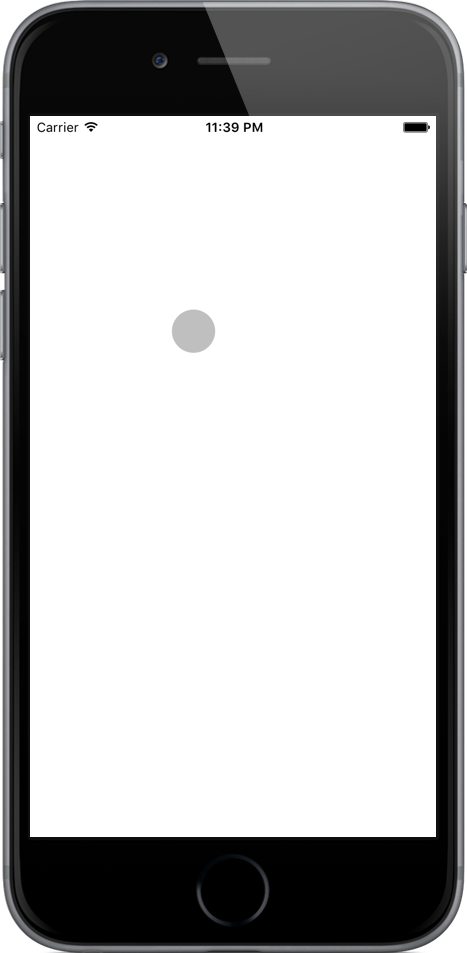
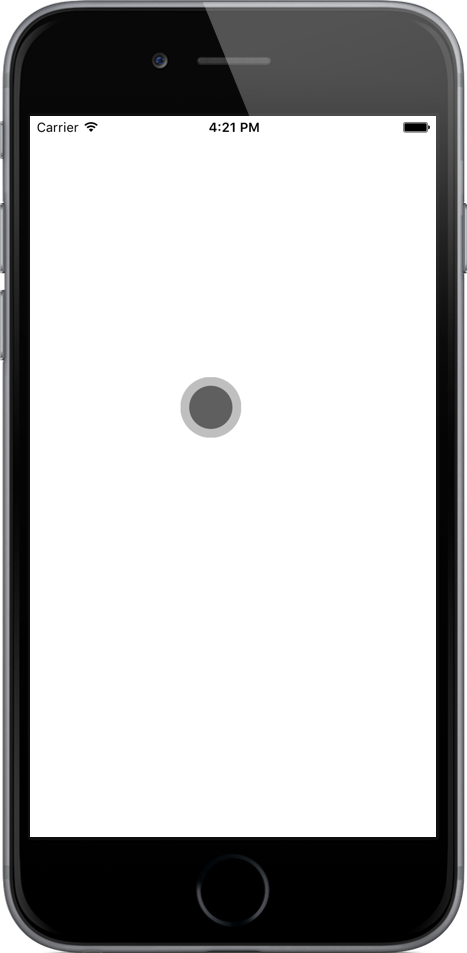
Support force touch

Changed region(s): [[0.3597, 0.3043, 0.5096, 0.4565], [0.4497, 0.1217, 0.5696, 0.1522]]

diff --git a/DMZTouchesWindow.m b/DMZTouchesWindow.m
@@ -7,10 +7,69 @@
 
 #import "DMZTouchesWindow.h"
 
+// MARK: DMZTouchView
+
+@interface DMZTouchView : UIView
+
+- (void)setCoreCollor:(UIColor *)coreColor;
+- (void)setForceCollor:(UIColor *)forceColor;
+- (void)setForceRadius:(CGFloat)forceRadius;
+
+@end
+
+@implementation DMZTouchView
+{
+	UIView *_core;
+	UIView *_force;
+}
+
+- (instancetype)initWithRadius:(CGFloat)radius
+{
+	CGRect frame = CGRectMake(0, 0, radius * 2, radius * 2);
+
+	self = [super initWithFrame:frame];
+
+	_force = [[UIView alloc] initWithFrame:(CGRect){CGPointZero, frame.size}];
+	_force.autoresizingMask = (UIViewAutoresizingFlexibleWidth | UIViewAutoresizingFlexibleHeight);
+	_force.layer.masksToBounds = YES;
+	_force.layer.cornerRadius = radius;
+	[self addSubview:_force];
+
+	_core = [[UIView alloc] initWithFrame:(CGRect){CGPointZero, frame.size}];
+	_core.autoresizingMask = (UIViewAutoresizingFlexibleWidth | UIViewAutoresizingFlexibleHeight);
+	_core.layer.masksToBounds = YES;
+	_core.layer.cornerRadius = radius;
+	[self addSubview:_core];
+
+	self.userInteractionEnabled = NO;
+
+	return self;
+}
+
+- (void)setCoreCollor:(UIColor *)coreColor
+{
+	_core.backgroundColor = coreColor;
+}
+
+- (void)setForceCollor:(UIColor *)forceColor
+{
+	_force.backgroundColor = forceColor;
+}
+
+- (void)setForceRadius:(CGFloat)forceRadius
+{
+	CGFloat scale = 1.0 + 0.6 * forceRadius;
+	_force.transform = CGAffineTransformMakeScale(scale, scale);
+}
+
+@end
+
+// MARK: DMZTouchEntity
+
 @interface DMZTouchEntity : NSObject
 
 @property (nonatomic, strong) UITouch *touch;
-@property (nonatomic, strong) UIView *view;
+@property (nonatomic, strong) DMZTouchView *view;
 
 @end
 
@@ -18,13 +77,12 @@
 
 @end
 
-@interface DMZTouchesWindow ()
-
-@property (nonatomic, strong) NSMutableArray<DMZTouchEntity *> *dmz_views;
-
-@end
+// MARK: DMZTouchesWindow
 
 @implementation DMZTouchesWindow
+{
+	NSMutableArray<DMZTouchEntity *> *_dmz_views;
+}
 
 - (instancetype)initWithFrame:(CGRect)frame
 {
@@ -58,47 +116,47 @@
 {
 	_dmz_touchesEnabled = dmz_touchesEnabled;
 
-	if (_dmz_touchesEnabled && self.dmz_views == nil)
+	if (_dmz_touchesEnabled && _dmz_views == nil)
 	{
-		self.dmz_views = [[NSMutableArray alloc] init];
+		_dmz_views = [[NSMutableArray alloc] init];
 	}
-	else if (!_dmz_touchesEnabled && self.dmz_views != nil)
+	else if (!_dmz_touchesEnabled && _dmz_views != nil)
 	{
-		for (DMZTouchEntity *touchEntity in self.dmz_views)
+		for (DMZTouchEntity *touchEntity in _dmz_views)
 		{
 			[touchEntity.view removeFromSuperview];
 		}
 
-		self.dmz_views = nil;
+		_dmz_views = nil;
 	}
 }
 
 - (void)sendEvent:(UIEvent *)event
 {
-	if (self.dmz_views != nil)
+	if (_dmz_views != nil)
 	{
 		NSMutableSet *beganTouches = [NSMutableSet set];
-		NSMutableSet *movedTouches = [NSMutableSet set];
+
 		NSMutableSet *endedTouches = [NSMutableSet set];
 
 		for (UITouch *touch in event.allTouches)
 		{
-			if (touch.phase == UITouchPhaseBegan)
-			{
-				[beganTouches addObject:touch];
-			}
-			else if (touch.phase == UITouchPhaseMoved || touch.phase == UITouchPhaseStationary)
-			{
-				[movedTouches addObject:touch];
-			}
-			else
-			{
-				[endedTouches addObject:touch];
+			switch (touch.phase) {
+				case UITouchPhaseBegan:
+					[beganTouches addObject:touch];
+					break;
+				case UITouchPhaseEnded:
+				case UITouchPhaseCancelled:
+					[endedTouches addObject:touch];
+					break;
+				case UITouchPhaseMoved:
+				case UITouchPhaseStationary:
+					break;
 			}
 		}
 
 		[self dmz_touchesBegan:[beganTouches copy]];
-		[self dmz_touchesMoved:[movedTouches copy]];
+		[self dmz_touchesMoved:[event.allTouches copy]];
 		[self dmz_touchesEnded:[endedTouches copy]];
 	}
 
@@ -107,7 +165,7 @@
 
 - (DMZTouchEntity *)dmz_touchEntityWithTouch:(UITouch *)touch
 {
-	for (DMZTouchEntity *touchEntity in self.dmz_views)
+	for (DMZTouchEntity *touchEntity in _dmz_views)
 	{
 		if (touchEntity.touch == touch)
 		{
@@ -122,20 +180,24 @@
 {
 	for (UITouch *touch in touches)
 	{
-		DMZTouchEntity *touchEntity = [[DMZTouchEntity alloc] init];
-		touchEntity.touch = touch;
+		UIColor *forceColor = self.dmz_touchesForceColor;
+		if (forceColor == nil)
+		{
+			CGFloat red, green, blue, alpha;
+			[self.dmz_touchesColor getRed:&red green:&green blue:&blue alpha:&alpha];
+			forceColor = [UIColor colorWithRed:red green:green blue:blue alpha:alpha / 2];
+		}
 
-		UIView *view = [[UIView alloc] init];
-		view.frame = CGRectMake(0, 0, self.dmz_touchesRadius * 2, self.dmz_touchesRadius * 2);
-		view.layer.masksToBounds = YES;
-		view.layer.cornerRadius = self.dmz_touchesRadius;
-		view.backgroundColor = self.dmz_touchesColor;
-		view.center = [touch locationInView:self];
+		DMZTouchView *view = [[DMZTouchView alloc] initWithRadius:self.dmz_touchesRadius];
+		[view setCoreCollor:self.dmz_touchesColor];
+		[view setForceCollor:forceColor];
 		view.layer.zPosition = FLT_MAX;
 
+		DMZTouchEntity *touchEntity = [[DMZTouchEntity alloc] init];
+		touchEntity.touch = touch;
 		touchEntity.view = view;
 
-		[self.dmz_views addObject:touchEntity];
+		[_dmz_views addObject:touchEntity];
 
 		[self addSubview:view];
 	}
@@ -145,8 +207,16 @@
 {
 	for (UITouch *touch in touches)
 	{
+		CGFloat forceRadius = 0;
+		if (!self.dmz_touchesForceDisabled)
+		{
+			forceRadius = (touch.force - 0.5) / (touch.maximumPossibleForce - 0.5);
+			forceRadius = MAX(0, forceRadius);
+		}
+
 		DMZTouchEntity *touchEntity = [self dmz_touchEntityWithTouch:touch];
 		touchEntity.view.center = [touchEntity.touch locationInView:self];
+		[touchEntity.view setForceRadius:forceRadius];
 	}
 }
 
@@ -156,7 +226,7 @@
 	{
 		DMZTouchEntity *touchEntity = [self dmz_touchEntityWithTouch:touch];
 		[touchEntity.view removeFromSuperview];
-		[self.dmz_views removeObject:touchEntity];
+		[_dmz_views removeObject:touchEntity];
 	}
 }
 

diff --git a/DMZTouchesWindow.h b/DMZTouchesWindow.h
@@ -7,6 +7,8 @@
 
 #import <UIKit/UIWindow.h>
 
+NS_ASSUME_NONNULL_BEGIN
+
 @interface DMZTouchesWindow : UIWindow
 
 // Color of touch circles. Default is black with 50% opacity
@@ -19,4 +21,14 @@
 // NO - touch circles are not visible. Defailt is NO
 @property (nonatomic, assign) CGFloat dmz_touchesEnabled;
 
+// Color of touch force circles. Default is nil.
+// If is nil, then will light color of dmz_touchesColor
+@property (nonatomic, strong, nullable) UIColor *dmz_touchesForceColor;
+
+// Determines visible touch force circles. YES - touch force circles are no visible.
+// NO - touch force circles are visible. Defailt is NO
+@property (nonatomic, assign) CGFloat dmz_touchesForceDisabled;
+
 @end
+
+NS_ASSUME_NONNULL_END
